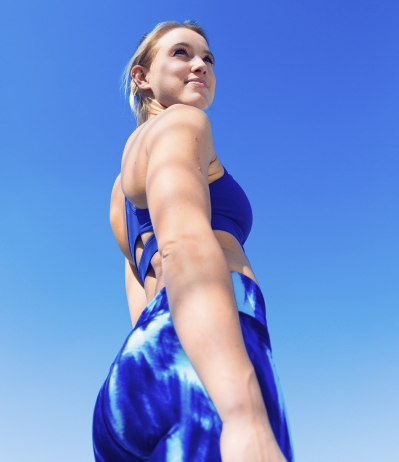
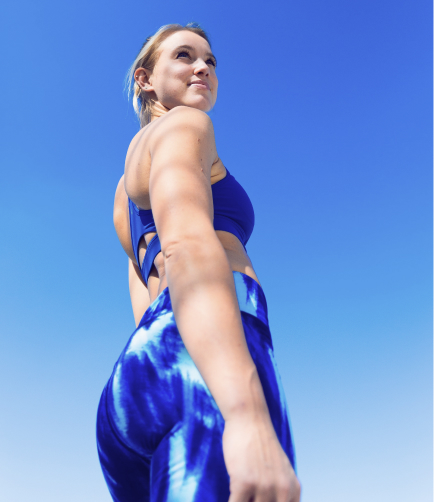
Размечает блок «Акции»

Changed region(s): [[0.2105, 0.0, 1.0, 1.0]]

diff --git a/source/index.html b/source/index.html
@@ -511,6 +511,42 @@
           </li>
         </ul>
       </section>
+
+      <section class="page-main__special-offers special-offers container">
+        <h2>Акции</h2>
+
+        <div class="special-offers__left-column">
+          <section class="main-offer">
+            <div class="main-offer__info">
+              <h2>Год <span class="visually-hidden">за</span> <strong>4999</strong> <span class="visually-hidden">рублей</span></h2>
+              <p>Безлимитный абонемент в тренажерный зал</p>
+              <a class="main-offer__link link link--light link--large" href="#">Подробнее</a>
+            </div>
+
+            <div class="main-offer__image">
+              <picture>
+                <source type="image/webp" srcset="img/content-special-offers.webp 1x, img/content-special-offers@2x.webp 2x">
+                <!-- 1x: 434px; 2x: 868px -->
+                <img src="img/content-special-offers.jpg" srcset="img/content-special-offers@2x.jpg" width="434" height="502" alt="Фото постоянного посетителя Фитнес центра «Supergym»">
+              </picture>
+            </div>
+          </section>
+        </div>
+
+        <ul class="special-offers__list">
+          <li>
+            <h3>Месяц бесплатно</h3>
+            <p>Приведи друга, получи абонемент&nbsp;в&nbsp;подарок</p>
+            <a class="special-offers__link link" href="#">Подробнее</a>
+          </li>
+
+          <li>
+            <h3>Скидка 20%</h3>
+            <p>Корпоративный фитнес с&nbsp;командой</p>
+            <a class="special-offers__link link" href="#">Подробнее</a>
+          </li>
+        </ul>
+      </section>
     </main>
 
     <script src="js/vendor.js"></script>
